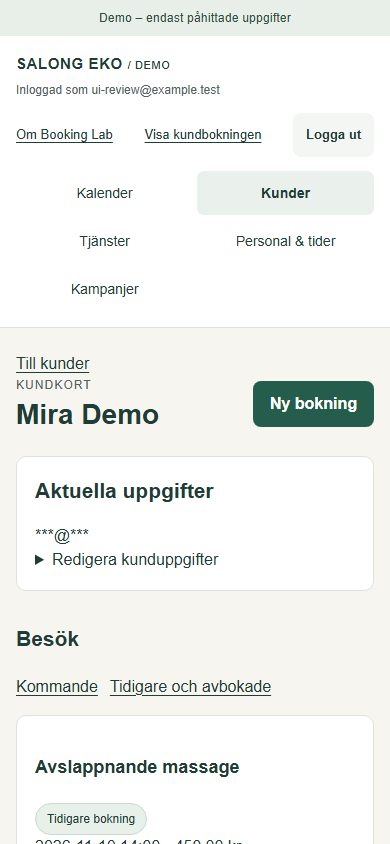
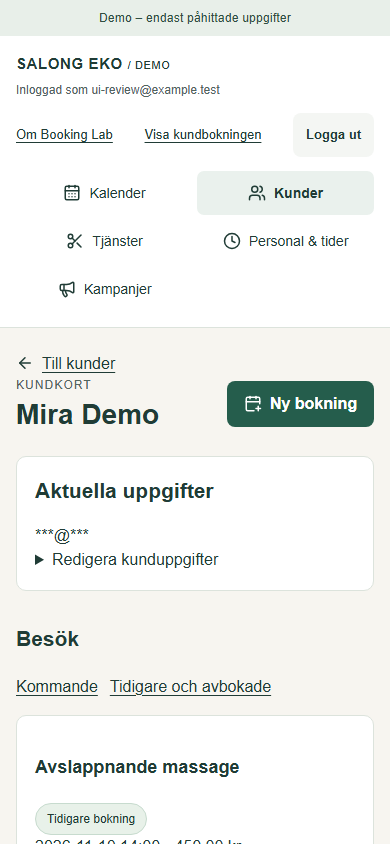
ui(epic06): add reviewed Lucide subset and refresh product screenshots

diff --git a/tests/preview-files.test.ts b/tests/preview-files.test.ts
@@ -1,5 +1,11 @@
 import { expect, it } from "vitest";
-import { copyFileSync, mkdirSync, mkdtempSync, rmSync, writeFileSync } from "node:fs";
+import {
+  copyFileSync,
+  mkdirSync,
+  mkdtempSync,
+  rmSync,
+  writeFileSync,
+} from "node:fs";
 import { tmpdir } from "node:os";
 import { basename, dirname, join, resolve, sep } from "node:path";
 import { previewFiles } from "../scripts/preview-files.mjs";
@@ -8,8 +14,27 @@ it("paketerar app, wrapper och migrationer, men aldrig hemligheter/tester/andra 
   const root = mkdtempSync(join(tmpdir(), "booking-preview-fixture-"));
   try {
     copyFileSync(".vercelignore", join(root, ".vercelignore"));
-    const wanted = ["src/app/page.tsx", "scripts/server.mjs", "prisma/migrations/one/migration.sql", "docs/DEPENDENCY_REVIEW.md", "THIRD_PARTY_NATIVE_NOTICES.txt", ".env.example"];
-    const rejected = [".env", ".env.local", "src/.env", "scripts/operator.private.json", "src/local.key", ".vercel/project.json", "node_modules/fake/index.js", "tests/synthetic.test.ts", "docs/HANDOFF.md", "docs/private/file.json"];
+    const wanted = [
+      "src/app/page.tsx",
+      "scripts/server.mjs",
+      "prisma/migrations/one/migration.sql",
+      "docs/DEPENDENCY_REVIEW.md",
+      "THIRD_PARTY_NATIVE_NOTICES.txt",
+      "THIRD_PARTY_LUCIDE_LICENSE.txt",
+      ".env.example",
+    ];
+    const rejected = [
+      ".env",
+      ".env.local",
+      "src/.env",
+      "scripts/operator.private.json",
+      "src/local.key",
+      ".vercel/project.json",
+      "node_modules/fake/index.js",
+      "tests/synthetic.test.ts",
+      "docs/HANDOFF.md",
+      "docs/private/file.json",
+    ];
     for (const file of [...wanted, ...rejected]) {
       mkdirSync(dirname(join(root, file)), { recursive: true });
       writeFileSync(join(root, file), "synthetic-fixture");
@@ -18,8 +43,10 @@ it("paketerar app, wrapper och migrationer, men aldrig hemligheter/tester/andra 
     for (const file of wanted) expect(files).toContain(file);
     for (const file of rejected) expect(files).not.toContain(file);
   } finally {
-    if (!resolve(root).startsWith(resolve(tmpdir()) + sep) ||
-        !basename(root).startsWith("booking-preview-fixture-"))
+    if (
+      !resolve(root).startsWith(resolve(tmpdir()) + sep) ||
+      !basename(root).startsWith("booking-preview-fixture-")
+    )
       throw new Error("PREVIEW_FIXTURE_PATH_REFUSED");
     rmSync(root, { recursive: true, force: true });
   }

diff --git a/src/app/admin/header.tsx b/src/app/admin/header.tsx
@@ -1,4 +1,5 @@
 import Link from "next/link";
+import { CalendarDays, Users, Scissors, Clock, Megaphone } from "lucide-react";
 import AdminActions from "./ui";
 import { demoAccessEnabled, DEMO_ADMIN_EMAIL } from "@/lib/demo-access";
 export default function AdminHeader({
@@ -21,18 +22,26 @@ export default function AdminHeader({
         </p>
       </div>
       <nav aria-label="Administration">
-        {[
-          ["calendar", "/admin", "Kalender"],
-          ["customers", "/admin/customers", "Kunder"],
-          ["services", "/admin/services", "Tjänster"],
-          ["staff", "/admin/staff", "Personal & tider"],
-          ["campaigns", "/admin/campaigns", "Kampanjer"],
-        ].map(([key, href, label]) => (
+        {(
+          [
+            ["calendar", "/admin", "Kalender", CalendarDays],
+            ["customers", "/admin/customers", "Kunder", Users],
+            ["services", "/admin/services", "Tjänster", Scissors],
+            ["staff", "/admin/staff", "Personal & tider", Clock],
+            ["campaigns", "/admin/campaigns", "Kampanjer", Megaphone],
+          ] as const
+        ).map(([key, href, label, Icon]) => (
           <a
             key={key}
             href={href}
             aria-current={active === key ? "page" : undefined}
           >
+            <Icon
+              className="ui-icon"
+              size={18}
+              aria-hidden="true"
+              focusable="false"
+            />
             {label}
           </a>
         ))}

diff --git a/src/app/admin/customers/[id]/page.tsx b/src/app/admin/customers/[id]/page.tsx
@@ -1,4 +1,5 @@
 import Link from "next/link";
+import { ArrowLeft, CalendarPlus } from "lucide-react";
 import { redirect, notFound } from "next/navigation";
 import { getAdminContext } from "@/lib/auth";
 import {
@@ -55,7 +56,15 @@ export default async function CustomerCard({
     <>
       <AdminHeader email={admin.email} active="customers" />
       <main className="admin-workspace narrow-workspace">
-        <Link href="/admin/customers">Till kunder</Link>
+        <Link href="/admin/customers">
+          <ArrowLeft
+            className="ui-icon"
+            size={18}
+            aria-hidden="true"
+            focusable="false"
+          />
+          Till kunder
+        </Link>
         <div className="workspace-heading customer-card-heading">
           <div>
             <p className="eyebrow">
@@ -65,6 +74,12 @@ export default async function CustomerCard({
           </div>
           {!customer.archived && (
             <Link className="button-link" href={newBooking}>
+              <CalendarPlus
+                className="ui-icon"
+                size={18}
+                aria-hidden="true"
+                focusable="false"
+              />
               Ny bokning
             </Link>
           )}

diff --git a/src/app/admin/customers/page.tsx b/src/app/admin/customers/page.tsx
@@ -1,4 +1,5 @@
 import Link from "next/link";
+import { Plus, Search } from "lucide-react";
 import { redirect } from "next/navigation";
 import { getAdminContext } from "@/lib/auth";
 import { customerListSchema, listCustomers } from "@/lib/customers";
@@ -47,6 +48,12 @@ export default async function Customers({
             <h1>Kunder</h1>
           </div>
           <Link className="button-link" href="/admin/customers/new">
+            <Plus
+              className="ui-icon"
+              size={18}
+              aria-hidden="true"
+              focusable="false"
+            />
             Ny kund
           </Link>
         </div>
@@ -80,7 +87,15 @@ export default async function Customers({
             />{" "}
             Visa även arkiverade
           </label>
-          <button>Sök kunder</button>
+          <button>
+            <Search
+              className="ui-icon"
+              size={18}
+              aria-hidden="true"
+              focusable="false"
+            />
+            Sök kunder
+          </button>
         </form>
         {!result.customers.length ? (
           <section className="panel">

diff --git a/src/app/style.css b/src/app/style.css
@@ -4,6 +4,12 @@
 :root {
   color-scheme: light;
 }
+.ui-icon {
+  display: inline-block;
+  flex-shrink: 0;
+  vertical-align: -3px;
+  margin-right: 8px;
+}
 .customer-list {
   display: grid;
   gap: 12px;

diff --git a/docs/DEPENDENCY_REVIEW.md b/docs/DEPENDENCY_REVIEW.md
@@ -1,5 +1,33 @@
 # Beroendesäkerhet
 
+## Epic 06 — uttryckligen beställt ikonurval
+
+`lucide-react` **1.72.0**, exakt version, ersätter egna SVG-/ikonvarianter för
+arbetsytans fem menyval, kundsökning, nytt kundkort och ny bokning. Endast
+namngivna ikoner importeras; ingen dynamisk ikonladdare eller extern font/CDN.
+Textetiketter finns kvar och SVG är dekorativt `aria-hidden`, utan egen fokuspunkt.
+
+Registry och faktisk `npm pack`-tarball granskade 2026-11-12. Paketets LICENSE
+är ISC med separat MIT-notis för Feather-härledda ikoner; båda bevaras i
+[fullständig licenstext](../THIRD_PARTY_LUCIDE_LICENSE.txt). Permissiva villkor
+kan följas tillsammans med projektets oförändrade AGPL-3.0-only; notices måste
+medfölja vidare distribution. Paketet har inga egna runtime-beroenden, inga
+install-skript och återanvänder befintlig React-peer. Peerintervallet omfattar
+React19; faktisk installerad React/React DOM är19.3.1 och Lucide1.72.0 enligt
+`npm ls --depth=0`. Ny audit verifieras separat vid slutkontroll.
+Dess devDependencies i upstream är inte transitiva runtime-beroenden i vår app.
+
+Underlag: [Lucides licens](https://lucide.dev/license), faktisk låst tarball och
+[GNU:s kompatibilitetslista](https://www.gnu.org/licenses/license-list.html).
+Installerad Next16.4.6 har Lucide i sin förvalda optimizePackageImports-lista;
+standardimport med namngivna ikoner behålls utan ny Next-konfiguration.
+
+Base UI/shadcn, TanStack Table och React Hook Form installeras inte: befintlig
+kundsökform använder semantiska HTML-knappar, inte en egen komplex combobox,
+dialog eller meny; listan har serverpaginering och formulären är korta med
+befintlig Zod. Nästa genuint komplexa kontroll ska värdera standarddelar först.
+Inget generellt UI-byte, ingen Tailwind- eller React-/Next-major följer av detta.
+
 ## Audit-återkontroll 2026-11-12 — rättning blockerad av stabil upstream
 
 Ny avgränsad genomgång från 6acd2efdb909aff86245fc021e7c0c8cbc9541d4; produktkod d7bc47f och manifest/låsfil oförändrade. UI, molnpreview och dummydata ändras inte. Arbetsbranch chore/audit-review-2026-11-12. Ingen ny dependency, override, prerelease, borttagen lintregel eller ändrad licens.

diff --git a/README.md b/README.md
@@ -1,5 +1,20 @@
 # booking-lab-se
 
+## Epic 06 — kunder, syntetisk salongsdag och produktingång
+
+Öppna `/product` för produktöversikten, `/admin/customers` för kundregistret
+och `/` för kundbokningen. Kundkort samlar kommande och tidigare besök;
+Ny bokning och Boka återbesök tar med vald kund. Nuvarande kontaktuppgifter
+och äldre bokningssnapshots hålls isär. Ingen automatisk sammanslagning eller
+publik kundsökning via e-post. Rå kontakt syns bara i den uttryckligen aktiverade
+isolerade demon; normal maskering och produktinloggning finns kvar.
+
+`npm run demo:seed` kräver `BOOKING_DEMO_SEED=1` och separat loopback-databas
+med suffix `_demo`. Seedningen är additiv och raderar inga manuella uppgifter.
+Cloudflaggan `--preview` är endast för den befintliga pinnade operatörsmiljön.
+[Plan och gränser](docs/EPIC_06_PLAN.md) · [aktuell leveransstatus](docs/PROJECT_STATUS.md)
+· [preview och provsteg](docs/DEMO.md). All data är påhittad. Pilot är fortsatt NO-GO.
+
 ## Epic 05 — QA-godkänd lokal produktalpha
 
 Den här branchen bygger på den godkända Epic04-POC:n. Migrera och seeda före start. Adminens huvudvy är nu en dag-/veckokalender med personalfilter; öppna ett bokningsblock för att flytta eller avboka, eller välj Ny bokning. Tjänster och Personal & tider har separata redigeringsvyer; tidigare kampanjflöde finns på `/admin/campaigns`. Endast syntetiska uppgifter. [Aktuell verifiering](docs/VERIFICATION.md) och [återstående godkänd omfattning](docs/EPIC_05_PLAN.md): MCP-paritet, ren installation/uppgraderingskopia och produktionsdemo är testade; Grok godkände4fc98d3 efter en avgränsad fix av adminens bokningsbudget; privat leveransc12b98a har grön fullmatris i Actions. [Exakt CI-bevis](docs/CI_DELIVERY_2026_11_12.md). [Stegvis provguide](docs/LOCAL_DEMO_WINDOWS.md). En separat [skyddad syntetisk mobilpreview](https://booking-lab-se-preview-i9pv3ji3h-<redacted-vercel-team>.vercel.app) är verifierad på kod f2fdac7; Vercel-inloggning och individuell appadmin krävs. [Prova och stoppa preview](docs/DEMO.md). Fysisk iPhone/Safari återstår; ingen kundpilot.

diff --git a/docs/EPIC_06_PLAN.md b/docs/EPIC_06_PLAN.md
@@ -41,3 +41,25 @@ feature/epic06-customers-demo-product. Ingen mainmerge eller offentlig release.
 
 Stoppgränser: ingen ny betaltjänst, providerbyte, offentlig MCP, journal,
 massutskick, betalning, flerföretagsdrift eller omskrivning av gamla migrationer.
+
+## Godkänt tillägg under genomförandet
+
+Återanvänd standarddelar där de minskar arbetet. Ett litet faktiskt använt
+Lucide-urval för navigation, kundsökning och bokningshandlingar ingår i samma
+leverans. Inga nya stora UI-/Tailwind-ramverk. Nya komplexa interaktioner ska
+föredra ett granskat sammanhängande Base UI/shadcn-urval. Befintligt kundval är
+en vanlig sökform med inbyggda knappar, ingen egen combobox/listbox/dialog;
+det skrivs inte om enbart för att införa ett bibliotek. TanStack Table och
+React Hook Form tillför inte konkret nytta för denna paginerade kortlista
+och korta formulär och installeras därför inte. Befintlig Zod består.
+
+Referenser studerade 2026-11-12: [Twentys layoutguide](https://github.com/twentyhq/twenty/blob/main/packages/twenty-docs/getting-started/core-concepts/layout.mdx),
+[Twentys aktivitetsguide](https://twentyhq-twenty.mintlify.app/user-guide/activities)
+och [Cal.coms bokningsbeskrivning](https://cal.com/faq). Användbara principer:
+sökbar lista → fokuserat kundkort → besök och nästa handling, samt tydligt
+dag-/tidsval och bokningsdetalj med flytt/avbokning. Ingen kod, CRM-panel,
+koppling till externa kalendrar eller skyddade assets kopieras. Det är
+referensläsning, inte ett påstående om utförd klicktest av deras produkter.
+
+Grok bedömer slutlig mobilfunktion, inte bibliotekets popularitet. Samma
+begränsade QA-flöde och högst två samlade rättningsvarv består.

diff --git a/THIRD_PARTY_NOTICES.md b/THIRD_PARTY_NOTICES.md
@@ -1,10 +1,19 @@
 # Third-party notices
 
+## Epic 06 icon subset
+
+`lucide-react` 1.72.0: ISC; Feather-derived icons retain the additional MIT
+copyright and permission notice. Complete tarball LICENSE is preserved in
+[THIRD_PARTY_LUCIDE_LICENSE.txt](THIRD_PARTY_LUCIDE_LICENSE.txt). No additional
+runtime dependencies; existing React peer. The application's AGPL-3.0-only
+license is unchanged. Original package notices also remain in node_modules.
+
 ## Restricted Vercel preview artifact (2026-11-12)
 
-This section qualifies the historical distribution gates below for the exact
+This earlier baseline section qualifies the historical distribution gates below for the exact
 Linux x64 GNU preview artifact. The application remains AGPL-3.0-only. No npm
-versions or upstream code have been changed. This is not clearance for other
+versions or upstream code were changed at that gate. Epic 06 adds only the
+Lucide package described above. This is not clearance for other
 platforms or a public binary release.
 
 `Dockerfile.vercel` installs the locked production tree with

diff --git a/docs/ARCHITECTURE.md b/docs/ARCHITECTURE.md
@@ -8,6 +8,11 @@ Historiska bokningsfält skrivs inte om när kundkortet eller behandlingen ändr
 Ingen automatisk sammanslagning/backfill via namn eller obekräftad e-post.
 Gamla bokningar är kvar utan kundlänk tills en uttrycklig regel finns; endast
 seedens egna exakta nycklar/syntetiska snapshots får kompletteras av demoseed.
+En klientvald seednyckel bevisar aldrig ägarskap. Backfill kräver dessutom
+lagrad create-händelse av den särskilda demoaktören, förväntad tjänst och
+ursprunglig start. Historisk rånyckel kräver även seedens exakta rad-id;
+framtida rad använder adminnamespacad nyckel. Kolliderande publika/manuella
+rader lämnas orörda och rapporteras som skipped, inte som befintlig demodata.
 
 Kundläsning och skrivning kräver aktiv serverhärledd arbetsyteaktör inom demo-
 verksamheten. Listor hämtar högst50/sida utan kontaktfält; kundkortets historik

diff --git a/AGENTS.md b/AGENTS.md
@@ -21,6 +21,10 @@ This block is written and re-added by `next dev` — verify at `node_modules/nex
   isolerad demo; listor/bokningar/MCP behåller minimering. Läs DATA_FLOWS.
 - Codex är ensam skrivande huvudagent. Samlad fryst Grok-QA i separat syntetisk
   kopia, högst två samlade rättningsvarv. Funktionstester och audit separeras.
+- Niclas tillägg: återanvänd standarddelar där de minskar arbetet. Leveransen
+  använder ett litet Lucide-urval med textetiketter. Ny komplex UI ska föredra
+  granskat Base UI/shadcn; lägg inte till oanvända paket eller skriv om enkla
+  fungerande formulär. Versions-/licensbeslut i DEPENDENCY_REVIEW.
 
 ## Levererat användbarhetsuppdrag, 2026-11-12
 
